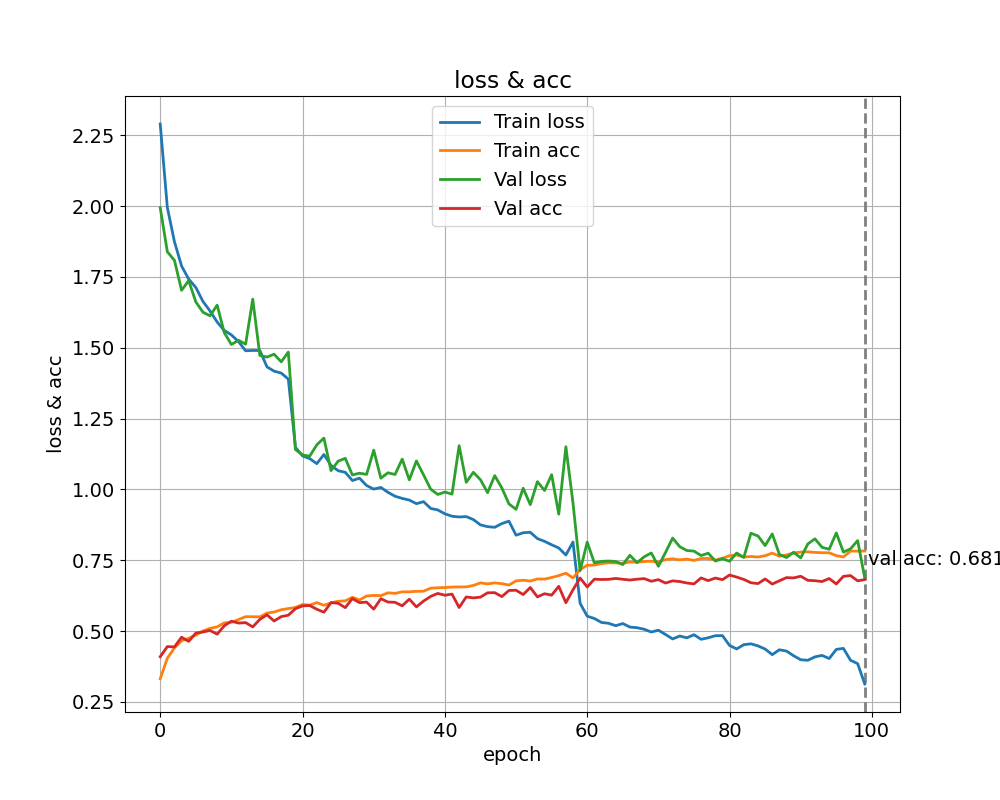
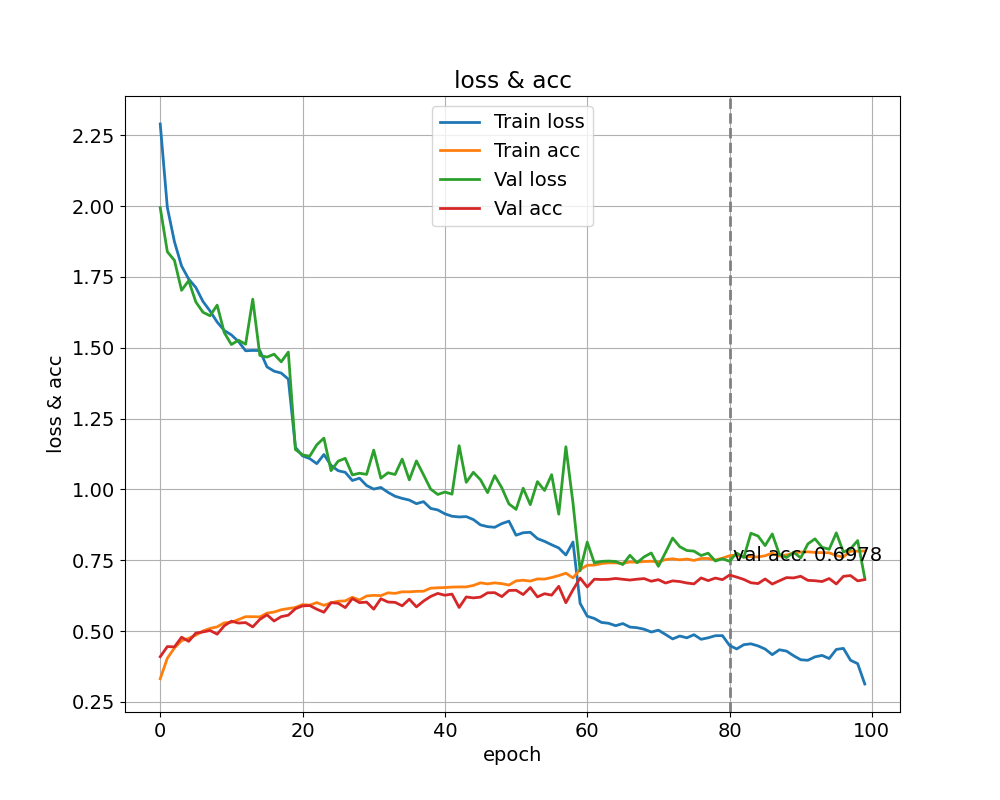
run 10

Changed region(s): [[0.713, 0.6562, 1.0, 0.7188]]

diff --git a/train_classifier.py b/train_classifier.py
@@ -268,7 +268,7 @@ if __name__=="__main__":
     print('loss function:')
     print(loss_function)
     
-    best_val_loss = 9999999
+    best_val_acc = 0
     train_losses = []
     train_accs = []
     val_losses = []
@@ -289,13 +289,13 @@ if __name__=="__main__":
         test_accs.append(test_acc)
         print('epoch: {}, train loss: {}, acc: {}, val loss: {}, acc: {}, test loss: {}, acc: {}'.format(epoch, train_loss, train_acc, val_loss, val_acc, test_loss, test_acc))
 
-        if  val_loss < best_val_loss:
-            best_val_loss = val_loss
+        if  val_acc > best_val_acc:
+            best_val_acc = val_acc
             best_val_epoch = epoch
             best_model = copy.deepcopy(model.state_dict())
             torch.save(model.state_dict(), trained_model_dir)
 
-    print('best val loss {} at epoch {}.'.format(best_val_loss, best_val_epoch))
+    print('best val acc {} at epoch {}.'.format(best_val_acc, best_val_epoch))
 
     # save the history of loss and accuracy
     results = {'train_losses': train_losses, 'train_accs': train_accs, 'val_losses': val_losses, 'val_accs': val_accs}

diff --git a/plot_loss_classifier.py b/plot_loss_classifier.py
@@ -29,8 +29,8 @@ def plot_loss(train_loss, train_acc, val_loss, val_acc, loss_dir, time):
     plt.grid(True)
 
     # find minimum validaiton loss
-    min_val_loss = np.min(val_loss)
-    pos = np.nonzero(val_loss == min_val_loss)[0]
+    max_val_acc = np.max(val_acc)
+    pos = np.nonzero(val_acc == max_val_acc)[0]
     max_val_acc = val_acc[pos[0]]
     plt.axvline(x=pos, linewidth=2, color='grey', linestyle='--')
     plt.text(pos+0.5, max_val_acc+0.05, 'val acc: ' + str(max_val_acc)[0:6])
